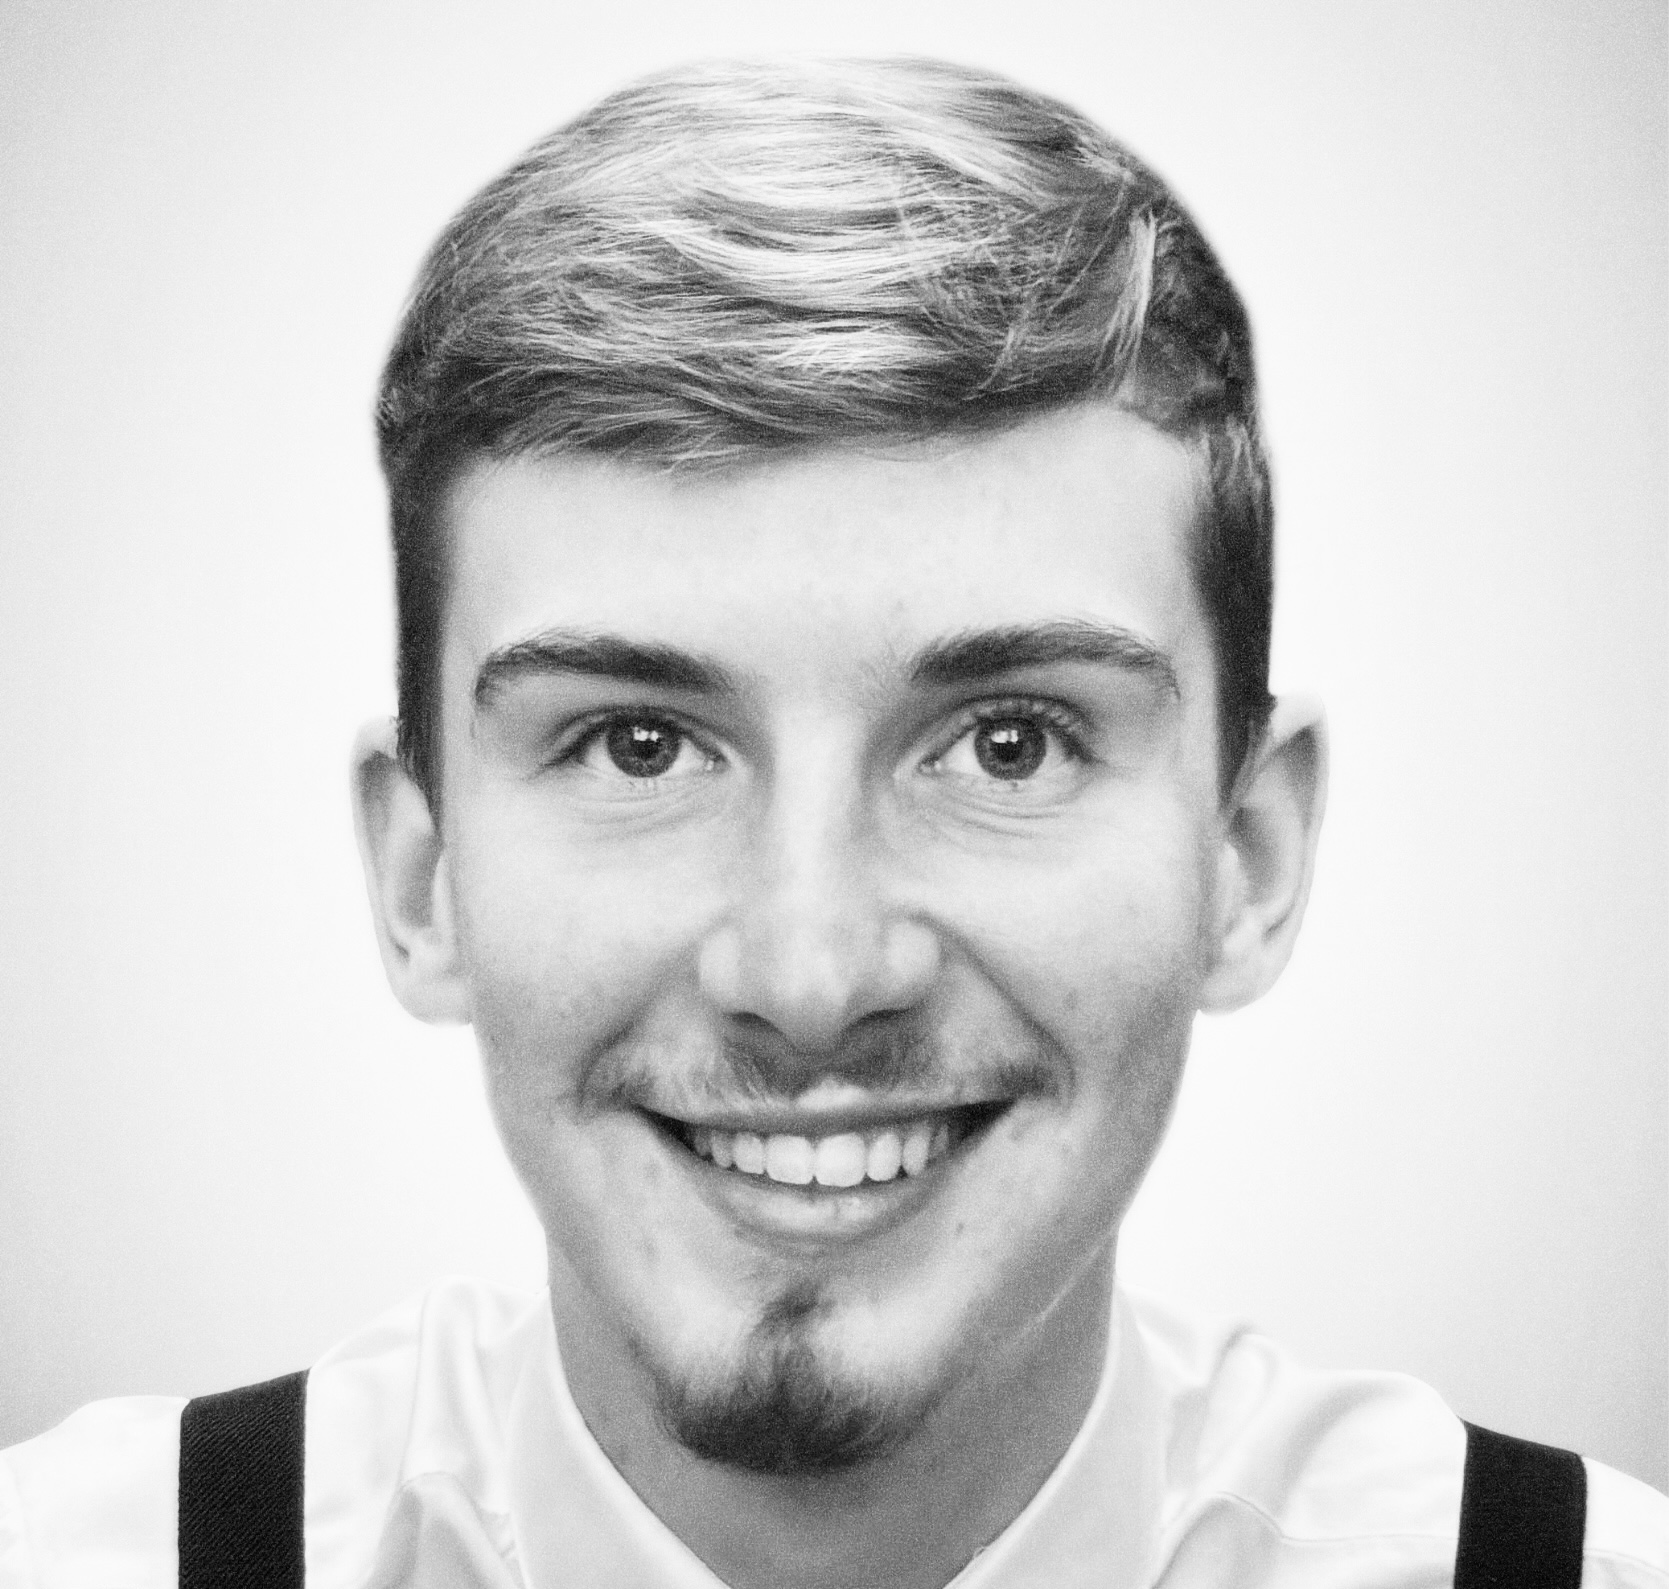
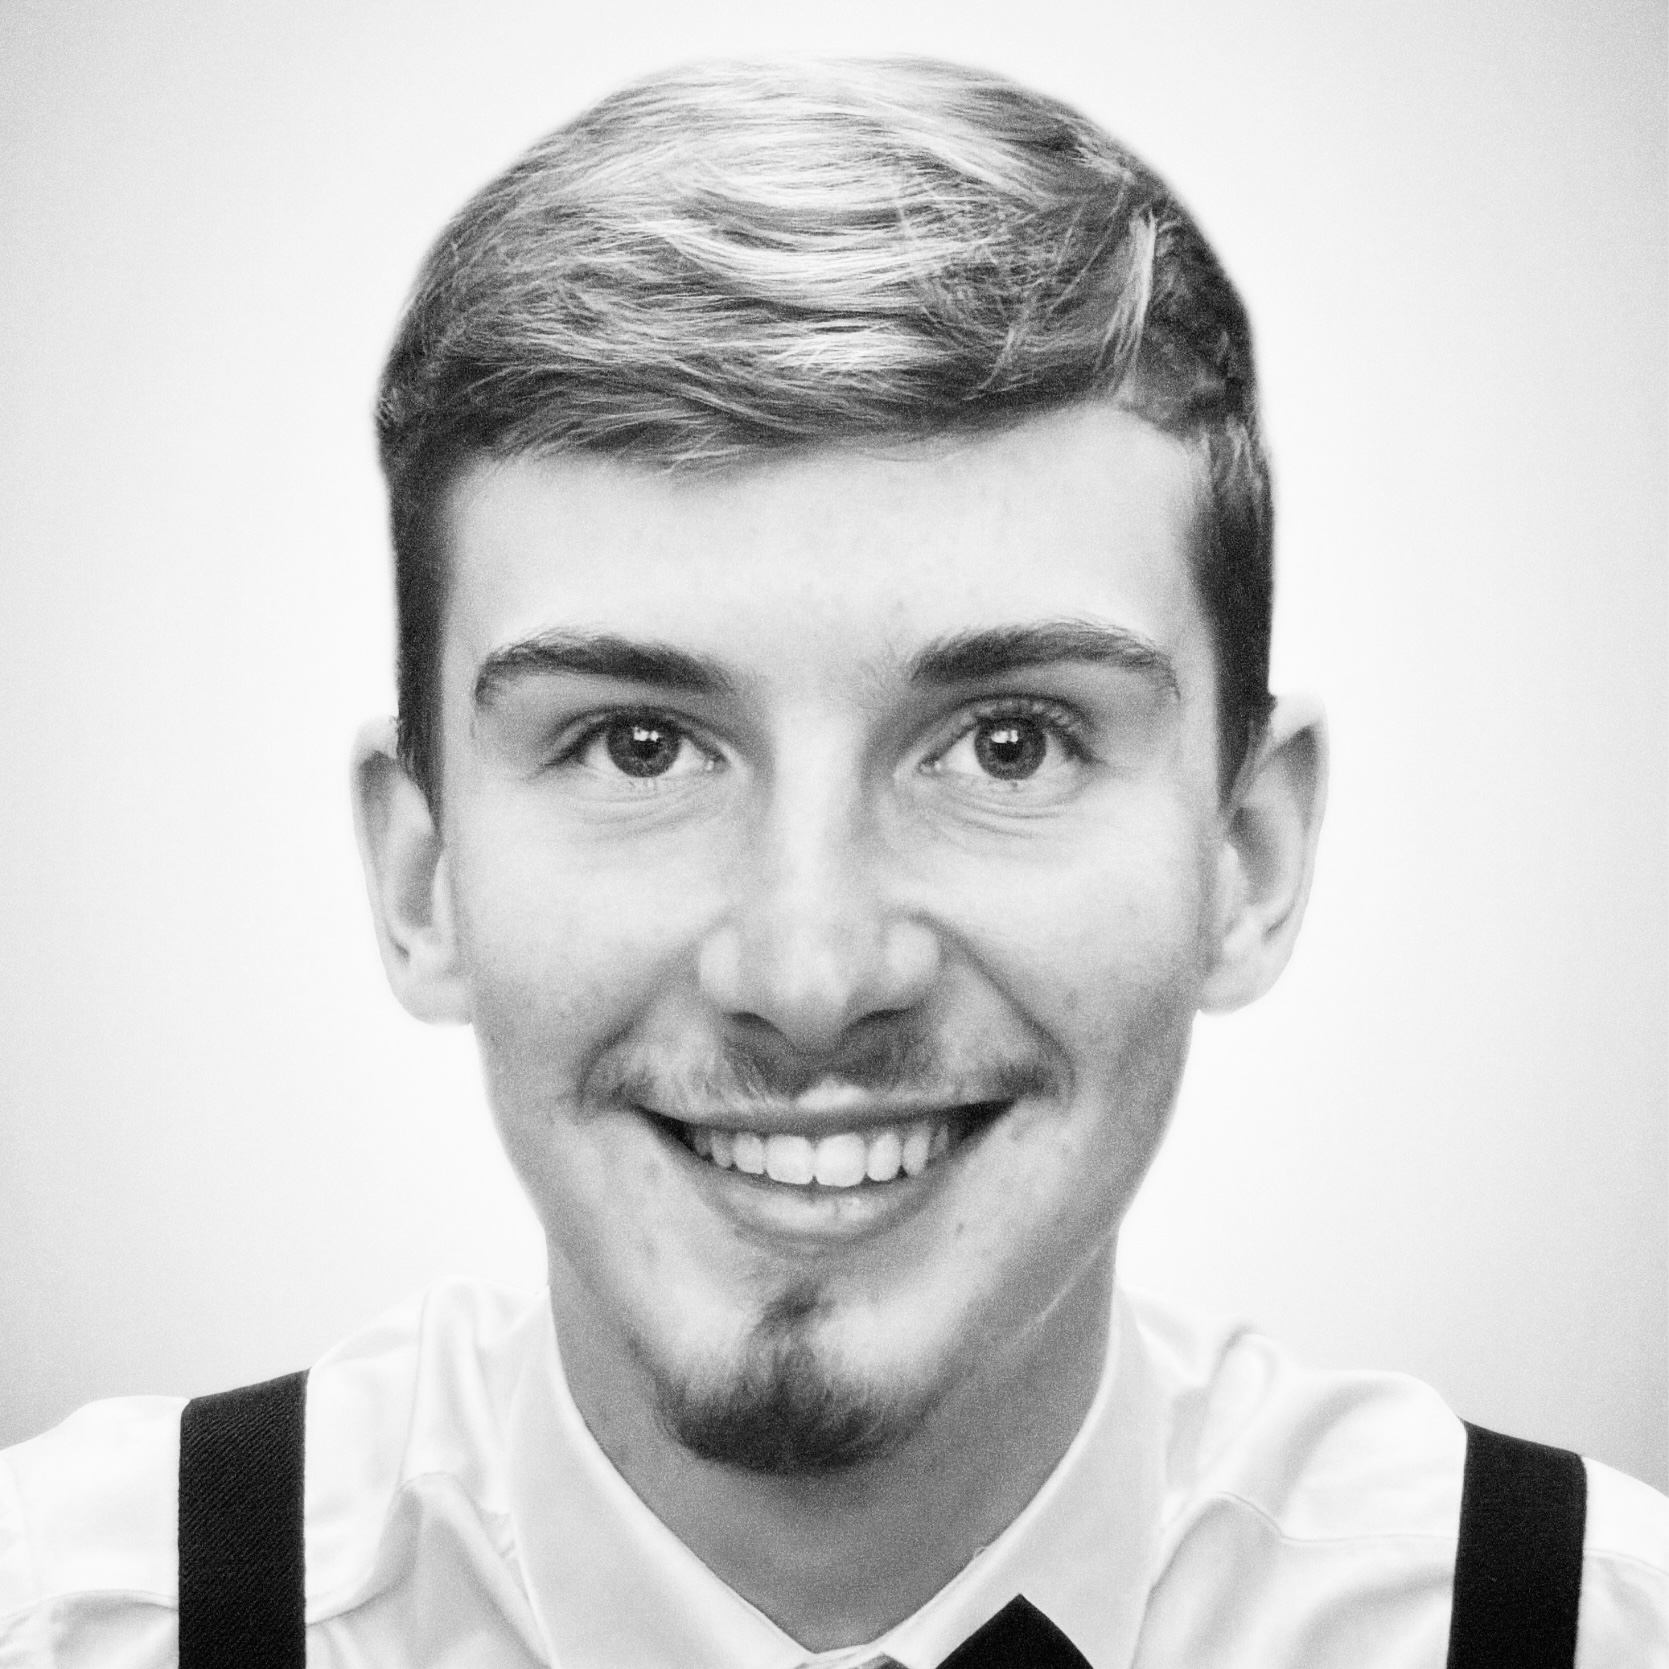
Updates

diff --git a/site/src/components/ui/navbar.tsx b/site/src/components/ui/navbar.tsx
@@ -18,7 +18,7 @@ const menuControlClassName =
 
 const navigationItems = [
   { href: "/", label: "HOME" },
-  { href: "/portfolio", label: "PORTFOLIO" },
+//   { href: "/portfolio", label: "PORTFOLIO" },
   { href: "/cv", label: "CV" },
 ];
 
@@ -34,38 +34,38 @@ const socialItems = [
 ];
 
 function Navbar() {
-  const headshotAnimation = useRef<Animation | null>(null);
+//   const headshotAnimation = useRef<Animation | null>(null);
 
-  const animateHeadshot = (headshot: HTMLImageElement) => {
-    if (window.matchMedia("(prefers-reduced-motion: reduce)").matches === true) {
-      return;
-    }
+//   const animateHeadshot = (headshot: HTMLImageElement) => {
+//     if (window.matchMedia("(prefers-reduced-motion: reduce)").matches === true) {
+//       return;
+//     }
 
-    if (headshotAnimation.current?.playState === "running") {
-      return;
-    }
+//     if (headshotAnimation.current?.playState === "running") {
+//       return;
+//     }
 
-    headshotAnimation.current = headshot.animate(
-      [
-        { transform: "rotate(0deg)", offset: 0, easing: "ease-in-out" },
-        { transform: "rotate(12deg)", offset: 0.15, easing: "ease-in-out" },
-        { transform: "rotate(-9deg)", offset: 0.32, easing: "ease-in-out" },
-        { transform: "rotate(6.5deg)", offset: 0.49, easing: "ease-in-out" },
-        { transform: "rotate(-4.5deg)", offset: 0.65, easing: "ease-in-out" },
-        { transform: "rotate(3deg)", offset: 0.79, easing: "ease-in-out" },
-        { transform: "rotate(-1.5deg)", offset: 0.9, easing: "ease-in-out" },
-        { transform: "rotate(0deg)", offset: 1 },
-      ],
-      { duration: 4800, iterations: 1 },
-    );
-  };
+//     headshotAnimation.current = headshot.animate(
+//       [
+//         { transform: "translateZ(0) rotate(0deg)", offset: 0, easing: "ease-in-out" },
+//         { transform: "translateZ(0) rotate(12deg)", offset: 0.15, easing: "ease-in-out" },
+//         { transform: "translateZ(0) rotate(-9deg)", offset: 0.32, easing: "ease-in-out" },
+//         { transform: "translateZ(0) rotate(6.5deg)", offset: 0.49, easing: "ease-in-out" },
+//         { transform: "translateZ(0) rotate(-4.5deg)", offset: 0.65, easing: "ease-in-out" },
+//         { transform: "translateZ(0) rotate(3deg)", offset: 0.79, easing: "ease-in-out" },
+//         { transform: "translateZ(0) rotate(-1.5deg)", offset: 0.9, easing: "ease-in-out" },
+//         { transform: "translateZ(0) rotate(0deg)", offset: 1 },
+//       ],
+//       { duration: 4800, iterations: 1 },
+//     );
+//   };
 
   return (
     <nav className="bg-black fixed w-full z-20 top-0 start-0">
       <div className="max-w-screen-xl flex flex-wrap items-center justify-between px-8 py-5">
         <Link
           href="/"
-          className="self-center text-lg text-white font-semibold whitespace-nowrap"
+          className="self-center tracking-wide text-lg text-white font-semibold whitespace-nowrap"
         >
           CONNOR BELL
         </Link>
@@ -133,19 +133,28 @@ function Navbar() {
                 </div>
 
                 <address className="mt-auto pt-16 text-[1rem] leading-relaxed tracking-wide not-italic">
-                  <Image
+                  {/* <Image
                     src="/Headshot.jpg"
                     alt="Connor Bell Headshot"
                     width={96}
                     height={96}
                     sizes="96px"
-                    className="mx-auto mb-5 size-22 rounded-full object-cover"
+                    unoptimized
+                    className="mx-auto mb-5 size-24 object-cover will-change-transform [backface-visibility:hidden]"
                     onPointerEnter={(event) => animateHeadshot(event.currentTarget)}
                     onPointerDown={(event) => animateHeadshot(event.currentTarget)}
-                  />
+                  /> */}
                   <p className="font-semibold text-[1.1rem]">CONNOR BELL</p>
-                  <p>
-                    Johannesburg – RSA
+                  <p className="flex items-center justify-center gap-1.5">
+                    {/* <Image
+                      src="/south-africa-flag.svg"
+                      alt=""
+                      width={24}
+                      height={16}
+                      sizes="24px"
+                      className="h-4 w-6 shrink-0 object-contain"
+                    /> */}
+                    <span>Johannesburg – South Africa</span>
                   </p>
                   <a
                     href="mailto:connor@cbell.co.za"

diff --git a/site/src/app/pages/home.tsx b/site/src/app/pages/home.tsx
@@ -19,7 +19,7 @@ function HomePage() {
   const currentDetail = detailLevel[0] ?? 0;
 
   return (
-    <section className="flex h-full min-h-0 flex-col items-center overflow-hidden overscroll-none bg-black px-8 pt-24 pb-38 text-white">
+    <section className="flex h-full min-h-0 select-none flex-col items-center overflow-hidden overscroll-none bg-black px-8 pt-24 pb-38 text-white">
       <div className="flex min-h-0 w-full max-w-4xl flex-1 flex-col">
         <div className="flex flex-1 flex-col justify-center">
           <p
@@ -30,8 +30,8 @@ function HomePage() {
           </p>
         </div>
 
-        <div className="w-full max-w-xs pt-8 select-none">
-          <h1 className="text-[1rem] font-medium mb-6">ABOUT ME</h1>
+        <div className="w-full max-w-xs pt-8">
+          <h1 className="text-[1.1rem] tracking-wide font-medium mb-6">About Me</h1>
           <Slider
             aria-label="About me detail level"
             value={detailLevel}

diff --git a/site/src/app/home/page.tsx b/site/src/app/home/page.tsx
@@ -1,0 +1,11 @@
+import Navbar from "@/components/ui/navbar";
+import HomePage from "../pages/home";
+
+export default function Home() {
+  return (
+    <main data-page="home" className="h-svh overflow-hidden bg-black">
+      <Navbar />
+      <HomePage />
+    </main>
+  );
+}

diff --git a/site/src/app/portfolio/page.tsx b/site/src/app/portfolio/page.tsx
@@ -1,0 +1,11 @@
+import Navbar from "@/components/ui/navbar";
+import PortfolioPage from "../pages/portfolio";
+
+export default function Portfolio() {
+  return (
+    <main className="min-h-svh bg-black">
+      <Navbar />
+      <PortfolioPage />
+    </main>
+  );
+}

diff --git a/site/src/app/cv/page.tsx b/site/src/app/cv/page.tsx
@@ -1,0 +1,11 @@
+import Navbar from "@/components/ui/navbar";
+import CVPage from "../pages/cv";
+
+export default function CV() {
+  return (
+    <main className="min-h-svh bg-black">
+      <Navbar />
+      <CVPage />
+    </main>
+  );
+}

diff --git a/site/src/app/pages/portfolio.tsx b/site/src/app/pages/portfolio.tsx
@@ -1,0 +1,5 @@
+function PortfolioPage() {
+  return <section className="min-h-svh bg-black" />;
+}
+
+export default PortfolioPage;

diff --git a/site/src/app/pages/cv.tsx b/site/src/app/pages/cv.tsx
@@ -1,0 +1,5 @@
+function CVPage() {
+  return <section className="min-h-svh bg-white" />;
+}
+
+export default CVPage;

diff --git a/site/src/app/not-found.tsx b/site/src/app/not-found.tsx
@@ -1,0 +1,3 @@
+export default function NotFound() {
+  return <main className="min-h-svh bg-black" />;
+}
